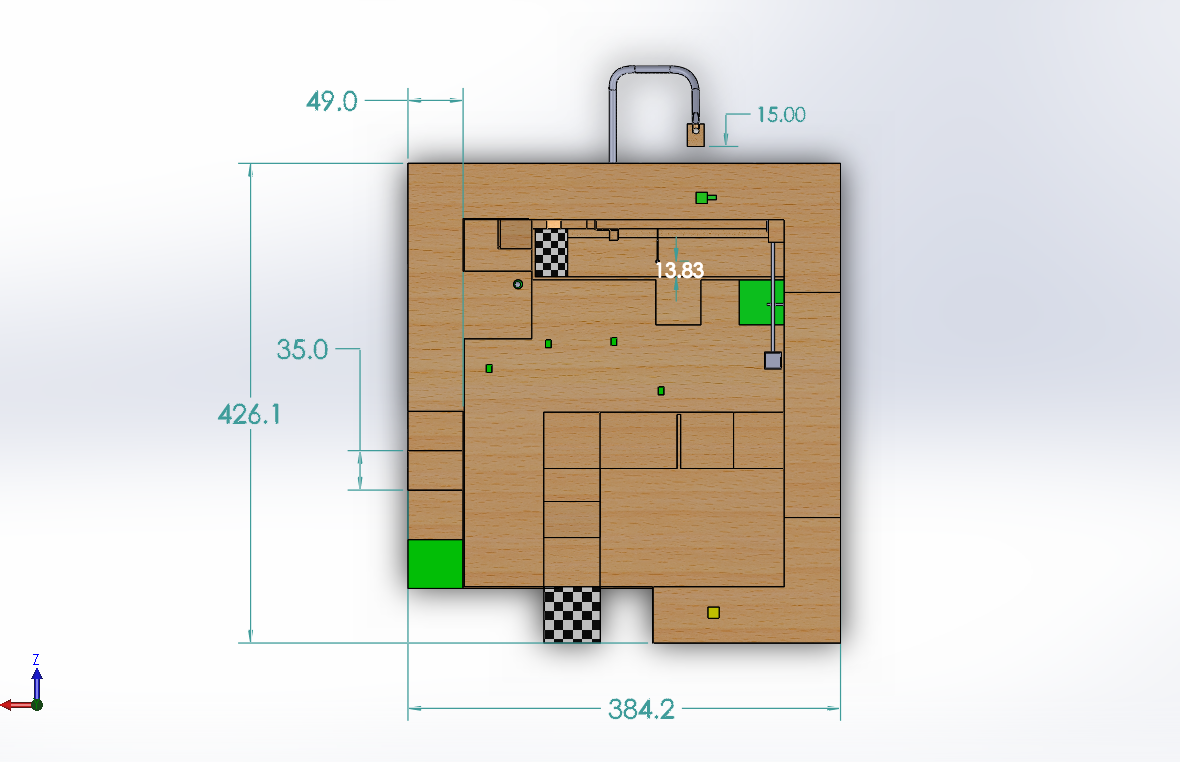
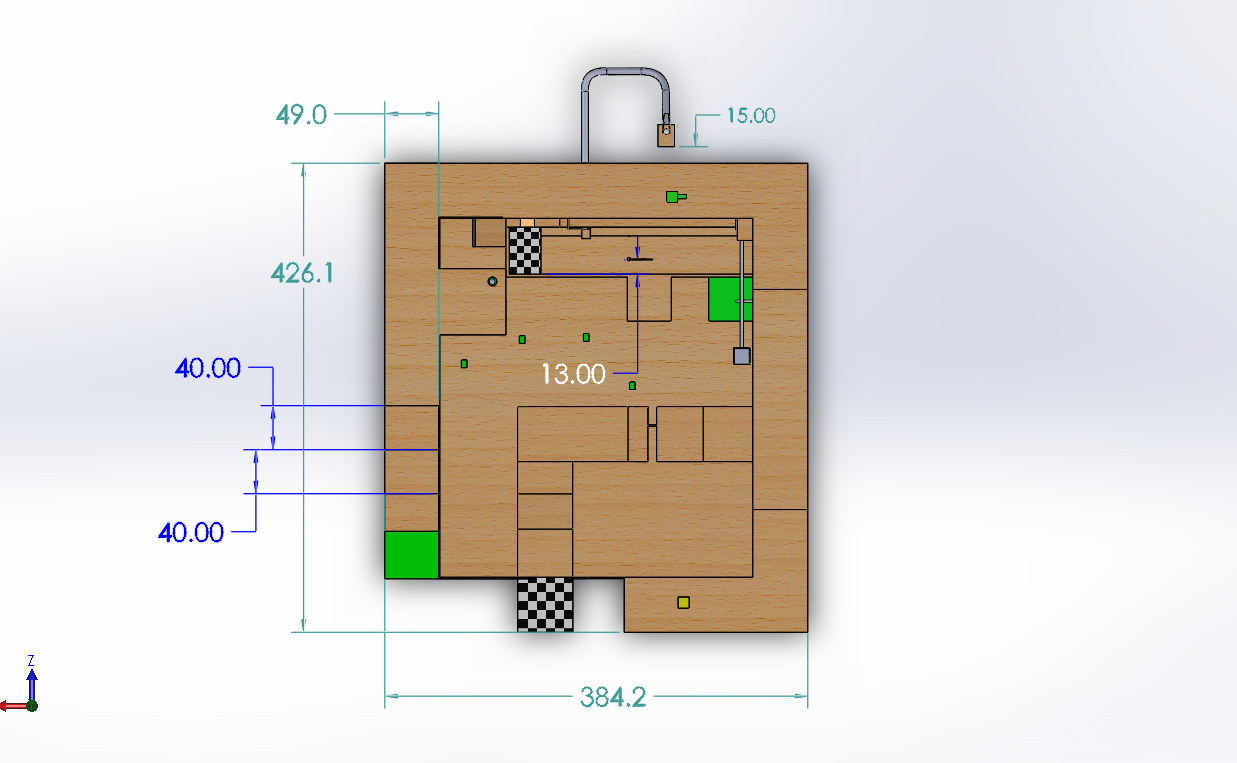
Crescendo Updated

diff --git a/_events/crescendo.md b/_events/crescendo.md
@@ -26,6 +26,10 @@ actions:
     link: https://www.youtube.com/watch?v=-E7RAfQoOx4
 ---
 
+
+#### Introduction:
+The Mission to colonize mars was well underway, but when those elected to save humanity touched down on the Red Planet is when disaster struck. Technical malfunction caused one of the fuel tanks to explode, creating a ton of debris and cracks in the oxygen tanks. With the precious gas leaking out into the thin Martian atmosphere, it’s upto the braniacs on board to devise a plan to get to the tanks and shut the tank valve before they find themselves suffocating. Put yourself in their shoes as you seek to build a robot that can find its way through debris, climbing over obstacles, and pick and place blocks to create a way and clear the area, ultimately releasing the spherical key to shut the valve!
+
 #### Problem Statement
 
 To build a manually controlled robot that can lift itself up vertically, initiate and continue translation on an elevated surface and also pick and place objects.
@@ -34,7 +38,7 @@ To build a manually controlled robot that can lift itself up vertically, initiat
 
 * Mechanism to switch surface plane of movement
 
-* Picking and placing
+* Picking and placing objects at variable distances from the bot
 
 #### Rules and Specifications
 
@@ -46,7 +50,7 @@ To build a manually controlled robot that can lift itself up vertically, initiat
 
 3. Only **2** members per team will be allowed to control the robot.
 
-4. The participants will be provided with 220 volts, 50 Hz standard AC supply. However, the participants cannot use this voltage apart from getting a 24V DC output through an adapter. This goes to say that no component on the robot may use a power supply higher than 24V DC. In case of any discrepancy, Team ROBOTIX will have the final say.
+4. The participants will be provided with 220 volts, 50 Hz standard AC supply. However, the participants cannot use this voltage apart from getting at max 24V DC output through an adapter. This goes to say that no component on the robot may use a power supply higher than 24V DC. In case of any discrepancy, Team ROBOTIX will have the final say.
 
 5. Skipping any part of the arena will be the participants choice and will be done only on the participant’s request and the approval of Team ROBOTIX. Any discrepancies will be handled by Team ROBOTIX and their decision will be final and binding. The timer will not stop when the position of the robot is being changed by the participant, but the initial and final position will be decided by Team ROBOTIX.Also, if the participants choose to skip any part of the arena, no time bonus will be given to the team even if they complete the run before the timer runs out.
 
@@ -103,58 +107,64 @@ To build a manually controlled robot that can lift itself up vertically, initiat
 
 #### Task
 
-##### Arena for Round 1 (Isometric View)
+##### Arena (Isometric View)
 
-![](/img/event/crescendo/manual34.png){:.img-responsive}
+![](/img/event/crescendo/1.png){:.img-responsive}
 
 ##### Round 1
 
 * The time limit for this round is **5 minutes**.
 
-* The bot has to start from the starting area (green colored area in the top right of the arena diagram).
+* The bot has to start from the starting area (green colored square in the diagram).
 
-![](/img/event/crescendo/manual2.jpg){:.img-responsive}
+![](/img/event/crescendo/16.png){:.img-responsive}
 
-* The bot has to climb the stage near it and rotate the flagpole-shaped obstacle (using its extendable gripper) obstructing the path of the ball to clear the path. The cleared path will allow for the motion of a white ball in round 2.
+* The bot has to climb the stage near it and rotate the flagpole-shaped obstacle (using its extendable gripper) obstructing the path of a ball to clear the path--ramp sloping downwards, currently obstructed by the flag supported by the flagpole obstacle. The cleared path will allow for the motion of a white ball in round 2. 
 
-![](/img/event/crescendo/manual3.jpg){:.img-responsive}
+* The bot has to climb down into the pit, pick up green blocks near it in the pit using its gripper mechanism, which will be used to fill up the gap just after the ramp that it has to climb thereafter.
 
-* The bot has to pick up green blocks near it using its gripper mechanism, which will be used to fill up the gap just after the ramp.
-
-* After all the green blocks are out in the pit and the gap is filled adequately, the bot has to climb the first stage and traverse the filled gap to reach the upcoming stage. 
+* After all the green blocks are out in the pit and the gap is filled adequately, the bot has to climb the first stage and traverse the filled gap to reach the upcoming stage.
 
 * In this way, the bot has to come out of the pit using the stages provided to it.
 
-* Thus the First Round will end when the bot reaches the checked surface which is right outside the pit.
+* Thus, the First Round will end when the bot reaches the checked surface which is right outside the pit.
 
-##### Arena for Round 2 (Isometric View)
+##### Arena (Top View)
 
-![](/img/event/crescendo/manual34.png){:.img-responsive}
+![](/img/event/crescendo/2.png){:.img-responsive}
+
 
 ##### Round 2
 
 * The time limit for this round is **6 minutes**.
 
-* The bot has to start from the starting area (green colored area in the bottom left of the arena diagram).
+* The bot has to start from the starting block--green colored area at the bottom left in the arena diagram.
 
-* It then has to use a suitable mechanism to shift itself to the platform to access the white ball.
+![](/img/event/crescendo/4.png){:.img-responsive}
 
-* The bot then has to pick up the ball and then drop it on the tilted surface beside it thus initiating the journey of the ball.
+* It then has to use a suitable mechanism to shift itself up, i.e. mount three elevated platforms to the platform, go along the way on top to get to the white ball, kept on top of the small green cylindrical block on a platform jutting off from the main path, as shown.
 
-![](/img/event/crescendo/manual11.png){:.img-responsive}
+![](/img/event/crescendo/10.png){:.img-responsive}
 
-* The bot will then have to traverse along the path so as to reach a green block with a cuboidal extruded protrusion.
+* The bot then has to pick up the ball and then drop it on the tilted surface beside it, thus initiating the journey of the ball.
 
-![](/img/event/crescendo/manual12.png){:.img-responsive}
-![](/img/event/crescendo/manual13.png){:.img-responsive}
+![](/img/event/crescendo/8.png){:.img-responsive}
+
+* The bot will then have to traverse along the main path so as to reach a green block with a cuboidal extruded protrusion.
+
+![](/img/event/crescendo/m7.png){:.img-responsive}
 
 * The bot will have to grip the block and place it on the surface beside it such that the extruded protrusion faces the white ball present on that surface. Then bot needs to push the block with the extended gripper so that the white ball travels down through the pipe thus removing the obstacle out of its way.
 
+![](/img/event/crescendo/13.png){:.img-responsive}
+
 * Then further traversing along the path the bot needs to climb down the stage. After that, there is a red cube on a small podium which the bot needs to pick up drop it at the next off on the next podium under the next stage.
 
-![](/img/event/crescendo/manual40.jpg){:.img-responsive}
+![](/img/event/crescendo/11.png){:.img-responsive}
 
 * Further, the bot needs to get the yellow block into the cubical vessel of the seesaw so as to lift up the obstacle on the path of the white ball which was initiated at the beginning of the second round.
+
+![](/img/event/crescendo/3.png){:.img-responsive}
 
 * Thus, when the white ball reaches the checked area, it signs off the completion of the second round.
 
@@ -162,18 +172,23 @@ To build a manually controlled robot that can lift itself up vertically, initiat
 
 ![](/img/event/crescendo/1.png){:.img-responsive}
 ![](/img/event/crescendo/2.png){:.img-responsive}
-![](/img/event/crescendo/manual37.png){:.img-responsive}
-![](/img/event/crescendo/manual22.png){:.img-responsive}
-![](/img/event/crescendo/manual23.png){:.img-responsive}
-![](/img/event/crescendo/manual24.png){:.img-responsive}
-![](/img/event/crescendo/manual39.png){:.img-responsive}
-![](/img/event/crescendo/manual30.png){:.img-responsive}
-![](/img/event/crescendo/manual31.png){:.img-responsive}
-![](/img/event/crescendo/manual41.png){:.img-responsive}
-![](/img/event/crescendo/manual33.png){:.img-responsive}
-![](/img/event/crescendo/manual38.png){:.img-responsive}
-![](/img/event/crescendo/3.png){:.img-responsive}
-![](/img/event/crescendo/manual42.png){:.img-responsive}
+![](/img/event/crescendo/4.png){:.img-responsive}
+![](/img/event/crescendo/16.png){:.img-responsive}
+![](/img/event/crescendo/10.png){:.img-responsive}
+![](/img/event/crescendo/1.png){:.img-responsive}
+![](/img/event/crescendo/5.png){:.img-responsive}
+![](/img/event/crescendo/6.png){:.img-responsive}
+![](/img/event/crescendo/7.png){:.img-responsive}
+![](/img/event/crescendo/12.png){:.img-responsive}
+![](/img/event/crescendo/14.png){:.img-responsive}
+![](/img/event/crescendo/15.png){:.img-responsive}
+![](/img/event/crescendo/17.png){:.img-responsive}
+![](/img/event/crescendo/18.png){:.img-responsive}
+![](/img/event/crescendo/20.png){:.img-responsive}
+![](/img/event/crescendo/21.png){:.img-responsive}
+![](/img/event/crescendo/9.png){:.img-responsive}
+![](/img/event/crescendo/11.png){:.img-responsive}
+
 
 **Note** All the above dimensions are in **cm**.
 
@@ -193,7 +208,9 @@ To build a manually controlled robot that can lift itself up vertically, initiat
 
 * Successfully crossing over the gap after placing the green blocks: 200 (G)
 
-* Successful plane shifting: 50 per shift (P)
+* Successful plane shifting (Plane at a height greater than 18 cm: 150 per shift (P1)
+
+* Successful plane shifting (Plane at a height less than 18 cm: 100 per shift (P2)
 
 * Time bonus: **number of seconds left(t') x 3**
 
@@ -201,9 +218,9 @@ To build a manually controlled robot that can lift itself up vertically, initiat
 
 * Disbalance or slipping out off the arena of the robot: -50 (E1)
 
-* Falling of the arena or in any of the gaps: -100 (E2)
+* Falling off the arena or in any of the gaps: -100 (E2)
 
-* Falling in the gaps: -200 (E3)
+* Unsucessful attempt at shifting the plane : -100 (E3)
 
 * Negative marks for each timeout: -100 (T)
 
@@ -218,7 +235,7 @@ To build a manually controlled robot that can lift itself up vertically, initiat
 **Scoring formula:**
 
 {% highlight ruby %}
-500 + RO1 * 100 + CD * 100 + B * 50 + G * 200 + P * 50 + t’ * 3 - E1 * 50 - E2 * 100 - E3 * 200 - T * 100 - R * 200 - 2 * X  
+500 + RO1 * 100 + CD * 100 + B * 50 + G * 200 + P1 * 150 + P2 * 100 + t’ * 3 - E1 * 50 - E2 * 100 - E3 * 100 - T * 100 - R * 200 - 2 * X  
 {% endhighlight %}
 
 ##### Round 2
@@ -227,7 +244,7 @@ To build a manually controlled robot that can lift itself up vertically, initiat
 
 * Base score: 500
 
-* Successfully initiating the white ball on its path: 200 (WB)
+* Successfully initiating the white ball on its path: 100 (WB)
 
 * Taking the yellow block to the seesaw: 100 (SS)
 
@@ -260,7 +277,7 @@ To build a manually controlled robot that can lift itself up vertically, initiat
 **Scoring formula:**
 
 {% highlight ruby %}
-500 + WB * 200 + SS * 100 + Q * 300 + P * 50 + t’ * 3 - E1 * 50 - E2 * 100  - T * 100 - R * 200 - 2 * X  
+500 + WB * 100 + SS * 100 + Q * 300 + P * 50 + t’ * 3 - E1 * 50 - E2 * 100  - T * 100 - R * 200 - 2 * X  
 {% endhighlight %}
 
 ##### Contacts
